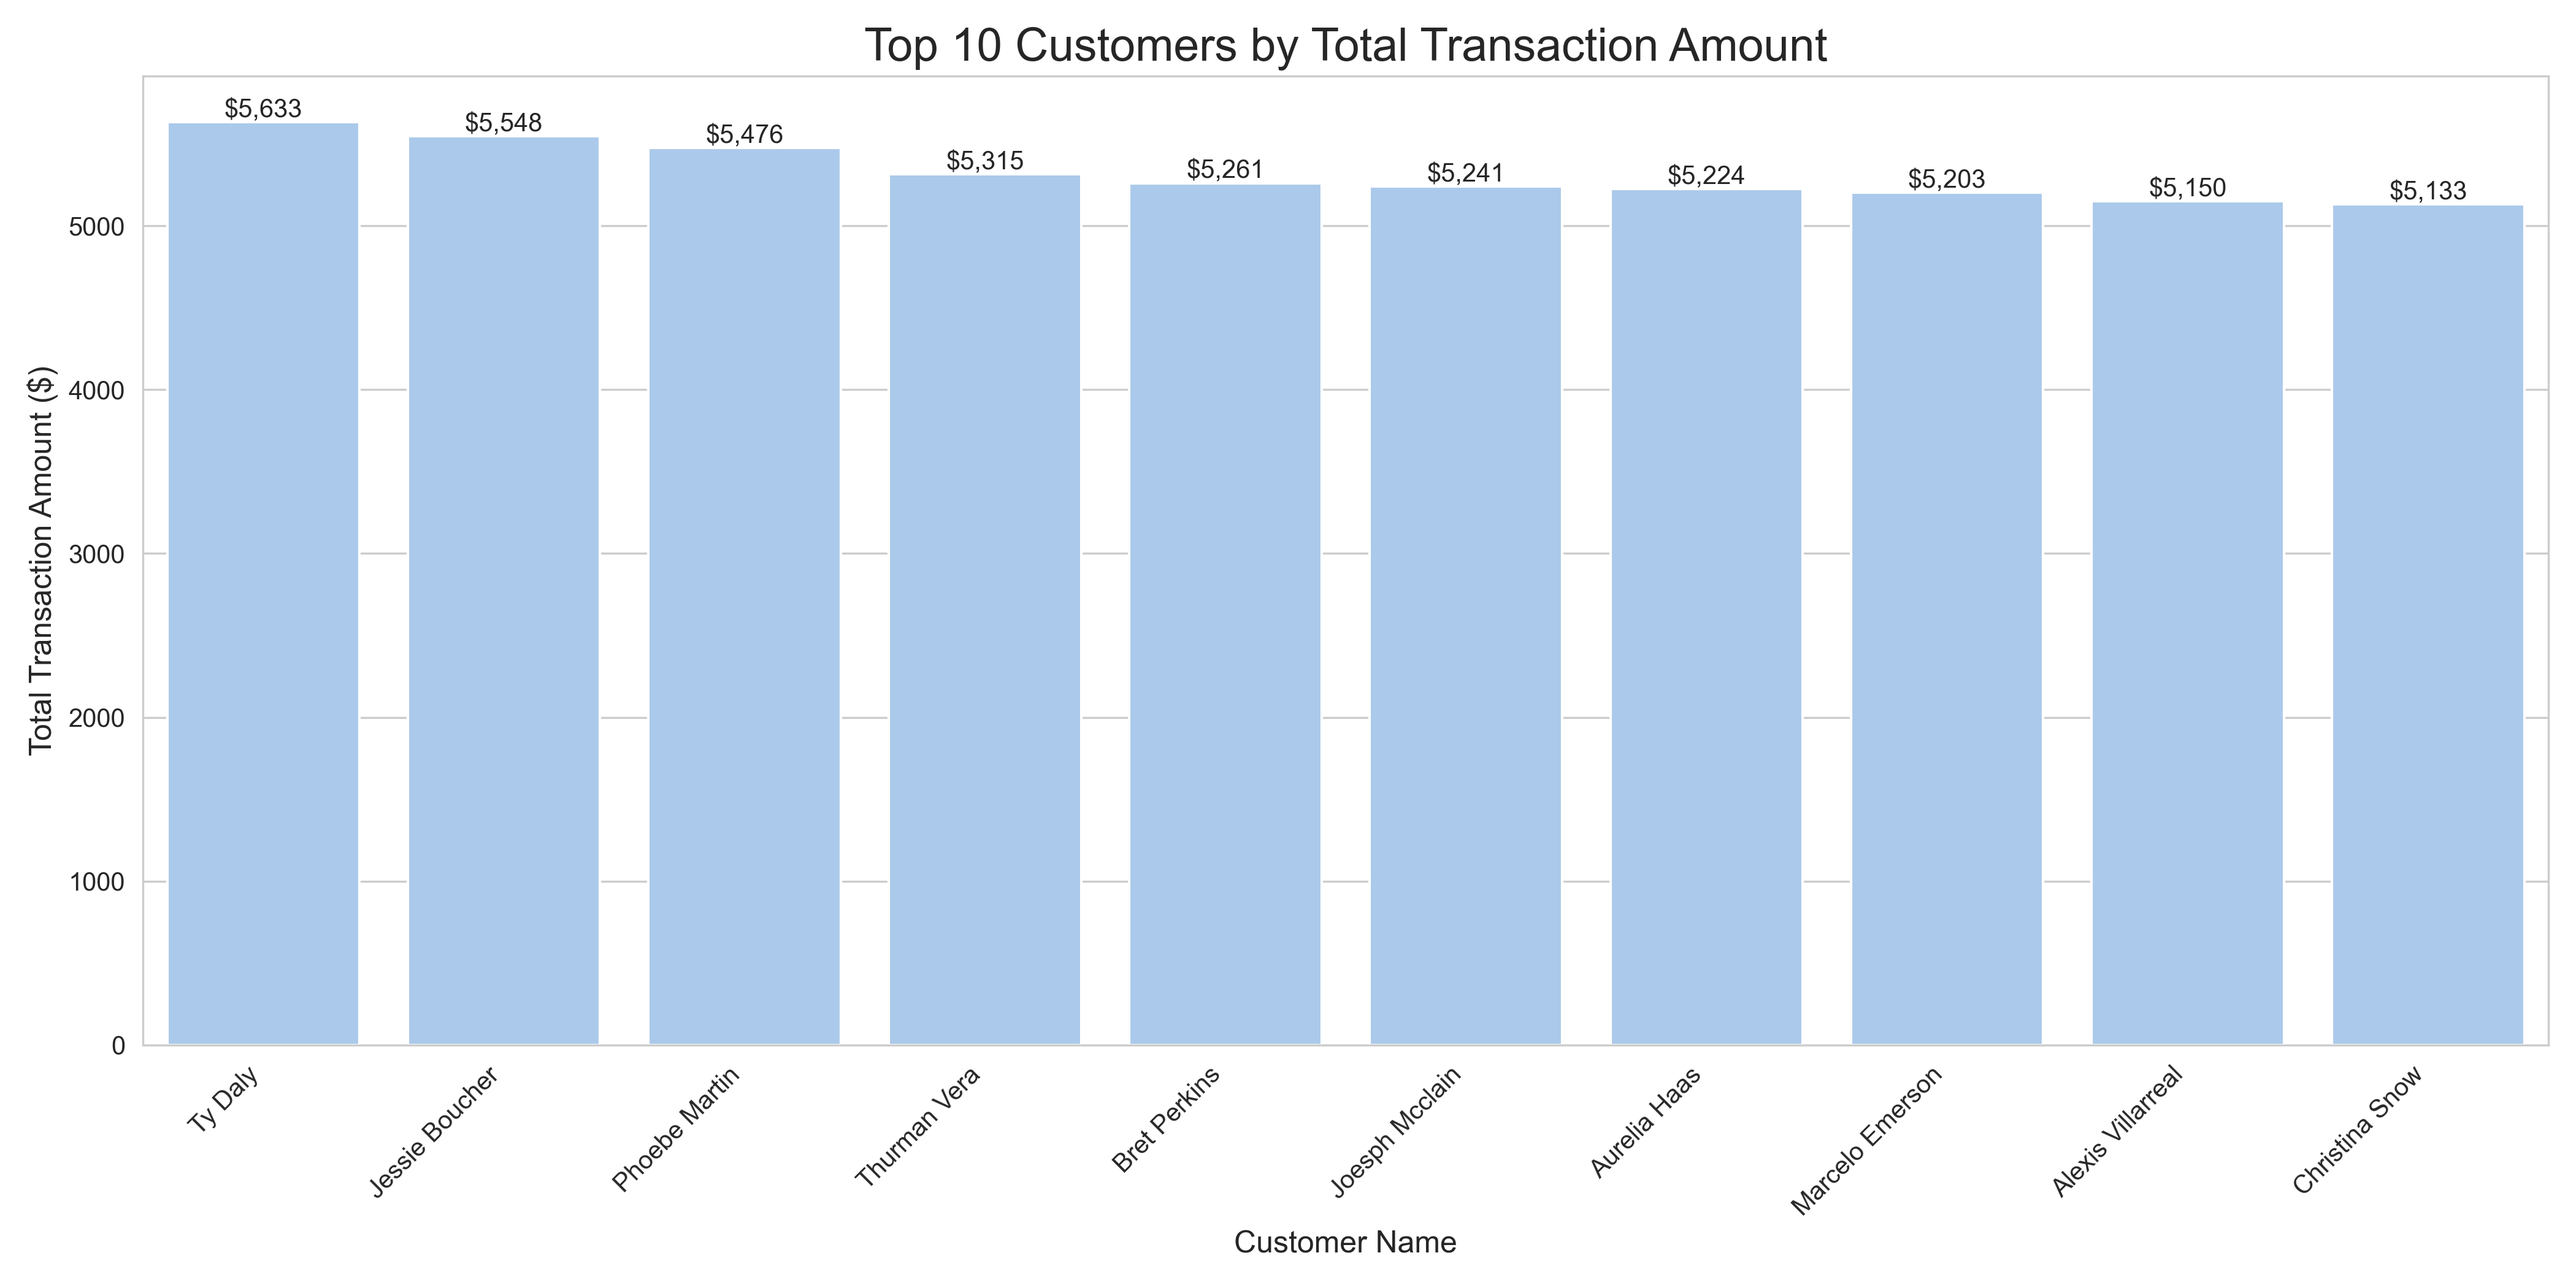
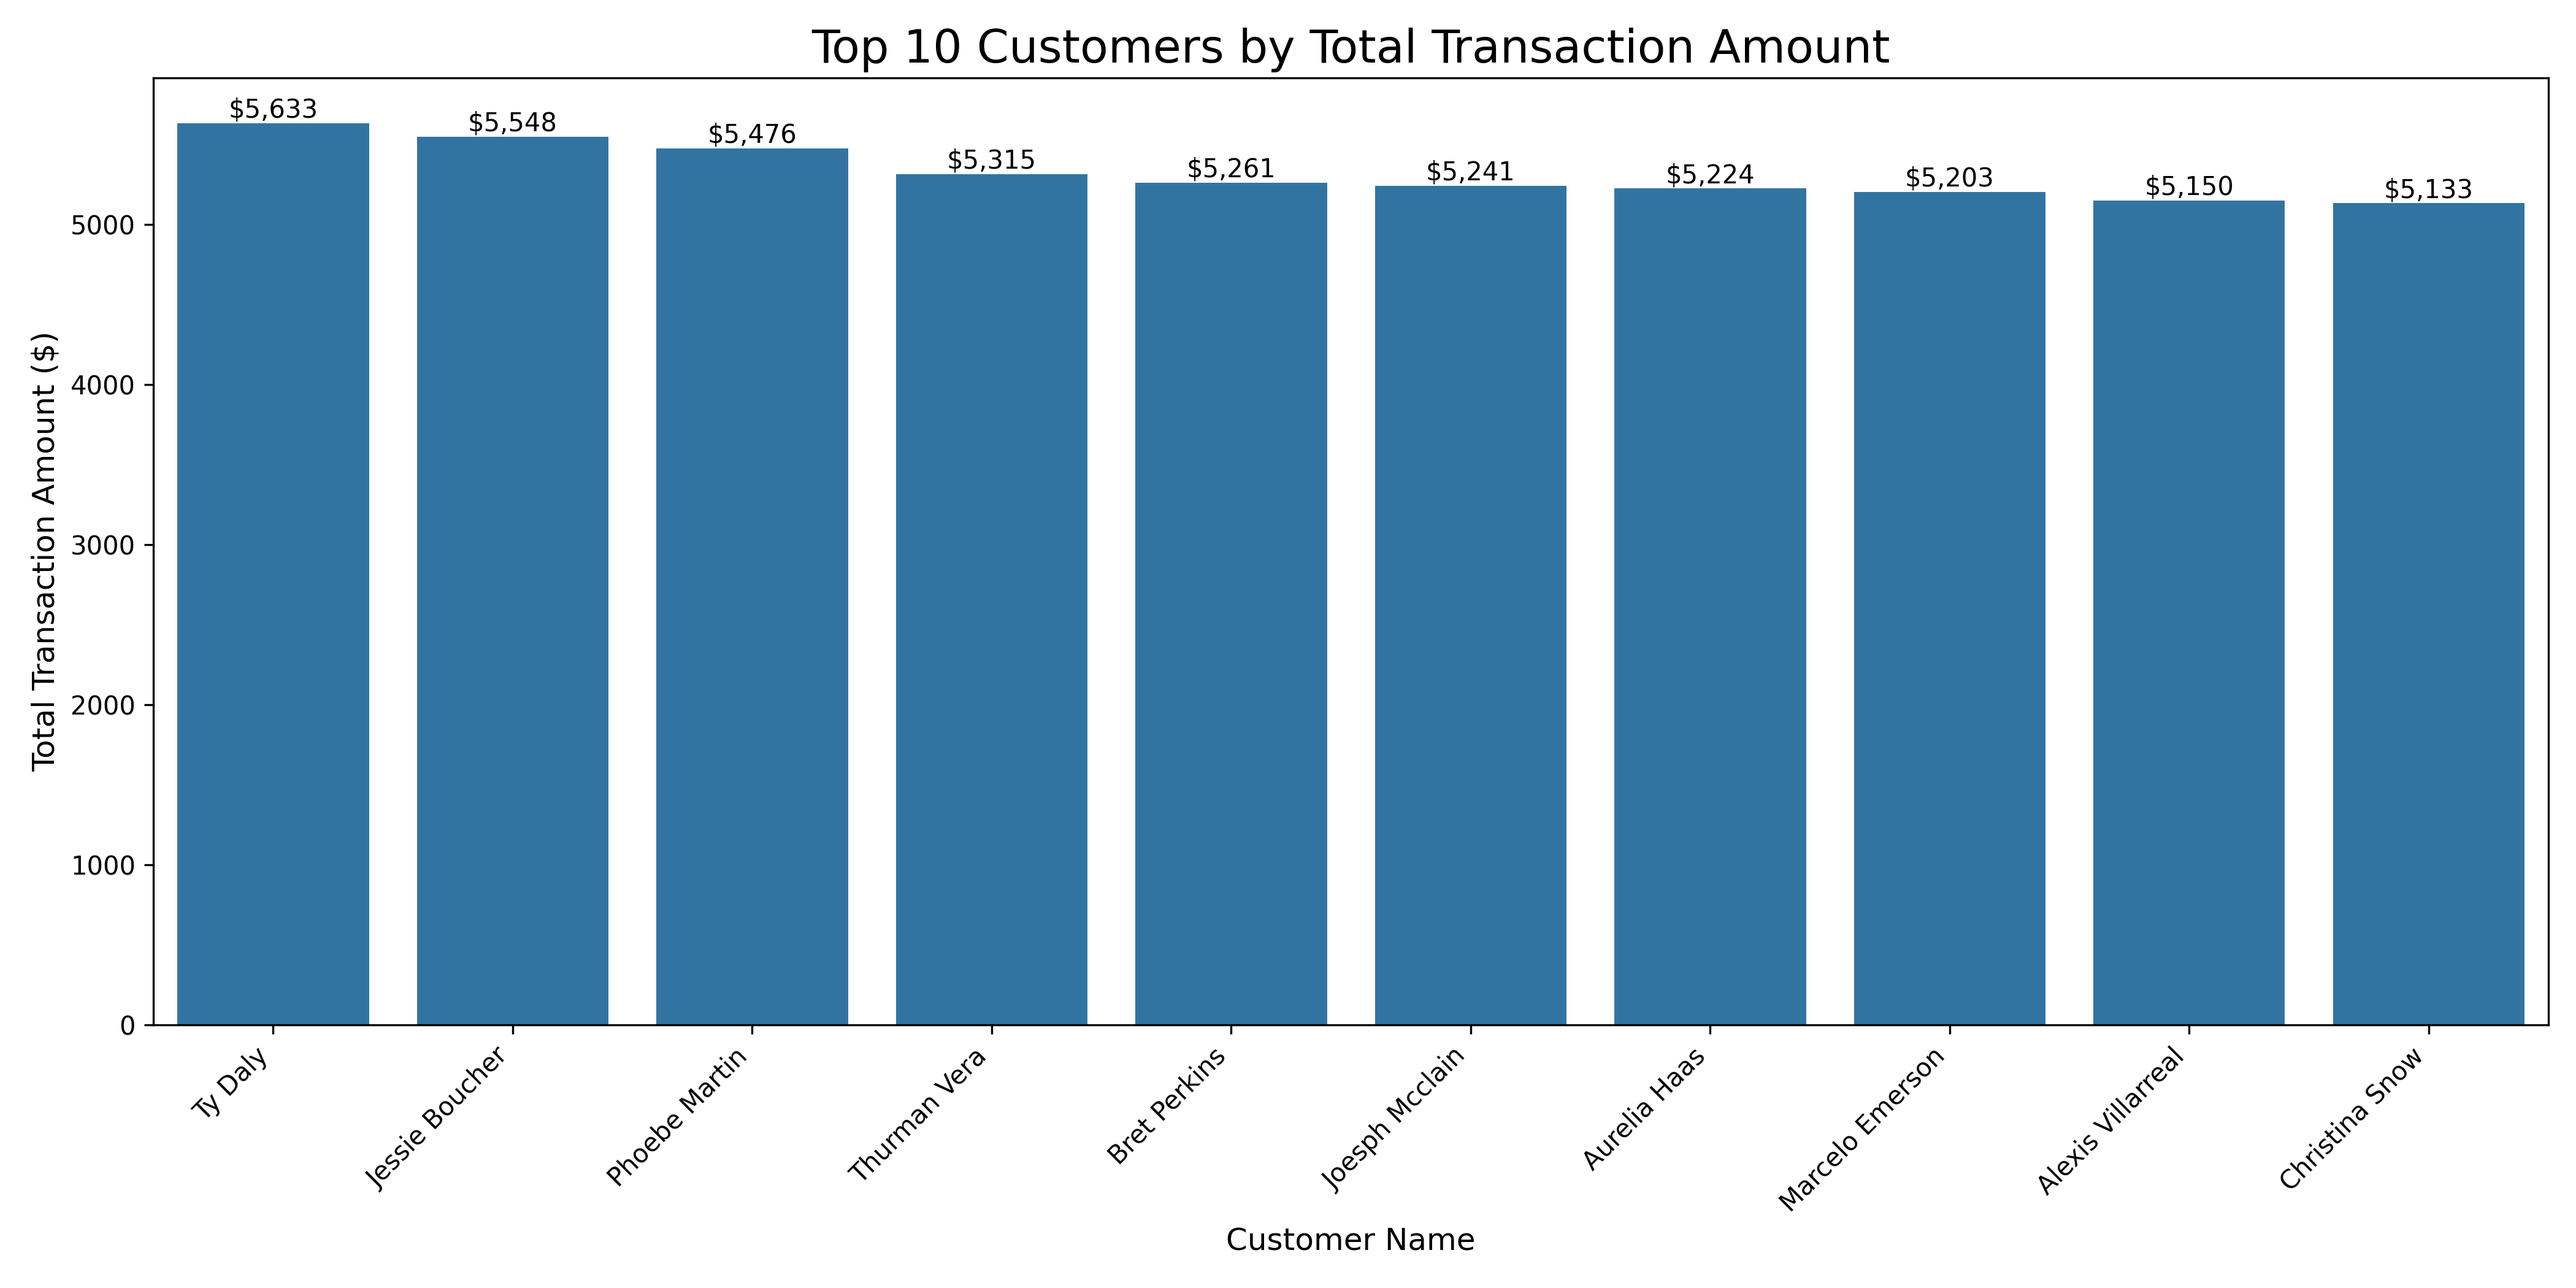
Pure pyspark code

diff --git a/cc_data_analysis_visualization.py b/cc_data_analysis_visualization.py
@@ -1,93 +1,110 @@
-import pandas as pd
-import seaborn as sns
+from pyspark.sql import SparkSession
+from pyspark.sql.functions import count, sum, concat, lit
 import matplotlib.pyplot as plt
-import sqlalchemy
+import seaborn as sns
 
-# Establish connection to database
-engine = sqlalchemy.create_engine('mysql://root:password@localhost/creditcard_capstone')
+# Create a SparkSession
+spark = SparkSession.builder \
+    .appName("CreditCardAnalysis") \
+    .getOrCreate()
+
+# MySQL connection properties
+mysql_properties = {
+    "driver": "com.mysql.cj.jdbc.Driver",
+    "url": "jdbc:mysql://localhost:3306/creditcard_capstone",
+    "user": "root",
+    "password": "password"
+}
+
+# Load data from MySQL tables into Spark DataFrames
+branch_df = spark.read.jdbc(
+    url=mysql_properties["url"],
+    table="CDW_SAPP_BRANCH",
+    properties=mysql_properties
+)
+branch_df.createOrReplaceTempView("CDW_SAPP_BRANCH")
+
+credit_card_df = spark.read.jdbc(
+    url=mysql_properties["url"],
+    table="CDW_SAPP_CREDIT_CARD",
+    properties=mysql_properties
+)
+credit_card_df.createOrReplaceTempView("CDW_SAPP_CREDIT_CARD")
+
+customer_df = spark.read.jdbc(
+    url=mysql_properties["url"],
+    table="CDW_SAPP_CUSTOMER",
+    properties=mysql_properties
+)
+customer_df.createOrReplaceTempView("CDW_SAPP_CUSTOMER")
 
 # -----3.1-----
-# sql query to get transaction counts by type
-transaction_type_query = """
+# PySpark query to get transaction counts by type
+transaction_type_df = spark.sql("""
 SELECT TRANSACTION_TYPE, COUNT(*) as TRANSACTION_COUNT
 FROM CDW_SAPP_CREDIT_CARD
 GROUP BY TRANSACTION_TYPE
 ORDER BY TRANSACTION_COUNT DESC
-"""
+""")
 
-# Execute transaction_type_query and load results into a DataFrame
-transaction_type_df = pd.read_sql(transaction_type_query, engine)
+# Convert to Pandas for visualization
+transaction_type_pd = transaction_type_df.toPandas()
 
 # Calculate percentages
-total = transaction_type_df['TRANSACTION_COUNT'].sum()
-transaction_type_df['PERCENTAGE'] = transaction_type_df['TRANSACTION_COUNT'] / total * 100
+total = transaction_type_pd['TRANSACTION_COUNT'].sum()
+transaction_type_pd['PERCENTAGE'] = transaction_type_pd['TRANSACTION_COUNT'] / total * 100
 
-# Set the style and color palette
-sns.set_style("whitegrid")
-colors = sns.color_palette("pastel")
-
-# Create explode tuple (0.1 for the largest slice, 0 for others)
-explode = [0.1 if i == 0 else 0 for i in range(len(transaction_type_df))]
-
-# Create pie chart with explode so that the biggest slice gets emphasized
+# Create pie chart (same as before)
 plt.figure(figsize=(14, 10))
-plt.pie(transaction_type_df['TRANSACTION_COUNT'], 
-        labels=transaction_type_df['TRANSACTION_TYPE'], 
+plt.pie(transaction_type_pd['TRANSACTION_COUNT'], 
+        labels=transaction_type_pd['TRANSACTION_TYPE'], 
         autopct=lambda pct: f'{pct:.1f}%\n({int(pct*total/100):,})',
         startangle=0, 
-        colors=colors, 
-        explode=explode)
+        colors=sns.color_palette("pastel"), 
+        explode=[0.1 if i == 0 else 0 for i in range(len(transaction_type_pd))])
 
 plt.title('Distribution of Transaction Types in Credit Card Database', fontsize=18, pad=20)
-
-# Add legend
-plt.legend(transaction_type_df['TRANSACTION_TYPE'], title="Transaction Types", 
+plt.legend(transaction_type_pd['TRANSACTION_TYPE'], title="Transaction Types", 
            loc="center left", bbox_to_anchor=(1, 0, 0.5, 1),
            fontsize=10, title_fontsize=12)
 
-# Save the plot
 plt.savefig('visualizations/3.1_transaction_type_pie_chart.png', dpi=300, bbox_inches='tight')
 plt.close()
 
 print("Plot saved as '3.1_transaction_type_pie_chart.png'")
 
 # -----3.2-----
-# sql query to get top 10 states with highest number of customers
-top_10_states_customer_number_query = """
+# PySpark query to get top 10 states with highest number of customers
+customer_number_df = spark.sql("""
 SELECT CUST_STATE, COUNT(*) AS CUSTOMER_COUNT
 FROM CDW_SAPP_CUSTOMER
 GROUP BY CUST_STATE
 ORDER BY CUSTOMER_COUNT DESC
 LIMIT 10
-"""
-        
-customer_number_df = pd.read_sql(top_10_states_customer_number_query, engine)
+""")
 
-# Set the style
-sns.set_style("whitegrid")
-sns.set_palette("pastel")
+customer_number_pd = customer_number_df.toPandas()
 
-# Create the bar plot
+# Create the bar plot (same as before)
 plt.figure(figsize=(14,7))
-ax = sns.barplot(x='CUST_STATE', y='CUSTOMER_COUNT', data=customer_number_df)
+ax = sns.barplot(x='CUST_STATE', y='CUSTOMER_COUNT', data=customer_number_pd)
 plt.title('Top 10 States with Highest Number of Customers', fontsize=18)
 plt.xlabel('State', fontsize=12)
 plt.ylabel('Number of Customers', fontsize=12)
 
-for i, v in enumerate(customer_number_df['CUSTOMER_COUNT']):
-    ax.text(i,v, str(v), ha='center', va='bottom')
-    
-# Save plot
+for i, v in enumerate(customer_number_pd['CUSTOMER_COUNT']):
+    ax.text(i, v, str(v), ha='center', va='bottom')
+
 plt.savefig('visualizations/3.2_top_10_states_by_customer_count.png', dpi=300)
 plt.close()
 
 print("Plot saved as '3.2_top_10_states_by_customer_count.png'")
 
 # -----3.3-----
-top_10_customers_query = """
+top_10_customers_df = spark.sql("""
 SELECT 
     c.FIRST_NAME, 
-    C.LAST_NAME, 
+    c.LAST_NAME, 
     SUM(t.TRANSACTION_VALUE) AS TOTAL
 FROM CDW_SAPP_CUSTOMER c
 JOIN CDW_SAPP_CREDIT_CARD t ON c.SSN = t.CUST_SSN
@@ -97,22 +114,19 @@ GROUP BY
     c.LAST_NAME
 ORDER BY TOTAL DESC
 LIMIT 10
-""" 
+""")
 
-top_10_customer_df = pd.read_sql(top_10_customers_query, engine)
-top_10_customer_df['FULL_NAME'] = top_10_customer_df['FIRST_NAME'] + ' ' + top_10_customer_df['LAST_NAME']
-
-sns.set_style('whitegrid')
-sns.set_palette('pastel') 
+top_10_customers_pd = top_10_customers_df.toPandas()
+top_10_customers_pd['FULL_NAME'] = top_10_customers_pd['FIRST_NAME'] + ' ' + top_10_customers_pd['LAST_NAME']
 
 plt.figure(figsize=(14, 7))
-ax = sns.barplot(x='FULL_NAME', y='TOTAL', data=top_10_customer_df)
+ax = sns.barplot(x='FULL_NAME', y='TOTAL', data=top_10_customers_pd)
 plt.title('Top 10 Customers by Total Transaction Amount', fontsize=18)
 plt.xlabel('Customer Name', fontsize=12)
 plt.ylabel('Total Transaction Amount ($)', fontsize=12)
 plt.xticks(rotation=45, ha='right')
 
-for i, v in enumerate(top_10_customer_df['TOTAL']):
+for i, v in enumerate(top_10_customers_pd['TOTAL']):
     ax.text(i, v, f'${v:,.0f}', ha='center', va='bottom')
 
 plt.tight_layout()
@@ -121,3 +135,6 @@ plt.savefig('visualizations/3.3_top_10_customers_by_total_transaction_amt.png', 
 plt.close()
 
 print("Plot saved as '3.3_top_10_customers_by_total_transaction_amt.png'")
+
+# Stop the SparkSession
+spark.stop()

diff --git a/cc_&_loan_data_analysis_visualization.py b/cc_&_loan_data_analysis_visualization.py
@@ -33,7 +33,7 @@ data1 = pd.DataFrame({
 })
 
 # Set seaborn style
-sns.set_style('whitegrid')
+# sns.set_style('whitegrid')
 colors = sns.color_palette("pastel")
 
 # Create pie chart
@@ -43,8 +43,11 @@ plt.pie(data1['Percentage'], labels=data1['Status'], colors=colors,
         autopct='%1.1f%%', startangle=90, explode=[0.1, 0])
 plt.title('Percentage of Approved Applications for Self Employed Applicants', fontsize=16)
 
+plt.tight_layout()
+
 # save the plot
 plt.savefig('visualizations/5.1_self_employed_approval_percentage.png')
+print("Plot saved as 'visualizations/5.1_self_employed_approval_percentage.png'")
 plt.close()
 
 # -----5.2-----
@@ -68,8 +71,11 @@ plt.pie(data2['Percentage'], labels=data2['Status'], colors=colors,
         autopct='%1.1f%%', startangle=90, explode=[0.1, 0])
 plt.title('Percentage of Rejected Applications for Married Male Applicants', fontsize=16)
 
+plt.tight_layout()
+
 # save the plot
 plt.savefig('visualizations/5.2_married_male_rejection_percentage.png')
+print("Plot saved as 'visualizations/5.2_married_male_rejection_percentage.png'")
 plt.close()
 
 # -----5.3-----
@@ -117,6 +123,9 @@ for i, v in enumerate(data3['Transaction_Count']):
 plt.tight_layout()
 
 plt.savefig('visualizations/5.3_top_3_months_transaction_volume.png')
+
+print("Plot saved as 'visualizations/5.3_top_3_months_transaction_volume.png'")
+
 plt.close()
 
 # -----5.4-----
@@ -139,15 +148,6 @@ branch_df = spark.read \
 # branch_df.select('BRANCH_CODE').distinct().show()
 
 # Perform the join, filter, group by, and aggregation
-healthcare_transactions = cc_df.alias('cc') \
-    .join(branch_df.alias('br'), col('cc.BRANCH_CODE') == col('br.BRANCH_CODE')) \
-    .filter(col('cc.TRANSACTION_TYPE') == 'Healthcare') \
-    .groupBy('br.BRANCH_CODE', 'br.BRANCH_NAME', 'br.BRANCH_STATE', 'br.BRANCH_ZIP') \
-    .agg(sum('cc.TRANSACTION_VALUE').alias('TOTAL_VALUE')) \
-    .orderBy(desc('TOTAL_VALUE')) \
-    .limit(10)  # Get top 10 branches
-
-# Your existing Spark code
 healthcare_transactions = cc_df.alias('cc') \
     .join(branch_df.alias('br'), col('cc.BRANCH_CODE') == col('br.BRANCH_CODE')) \
     .filter(col('cc.TRANSACTION_TYPE') == 'Healthcare') \
@@ -186,5 +186,6 @@ plt.tight_layout()
 plt.savefig('visualizations/5.4_top_branches_healthcare_transactions.png')
 plt.close()
 
+print("Plot saved as 'visualizations/5.4_top_branches_healthcare_transactions.png'")
 
 spark.stop()
